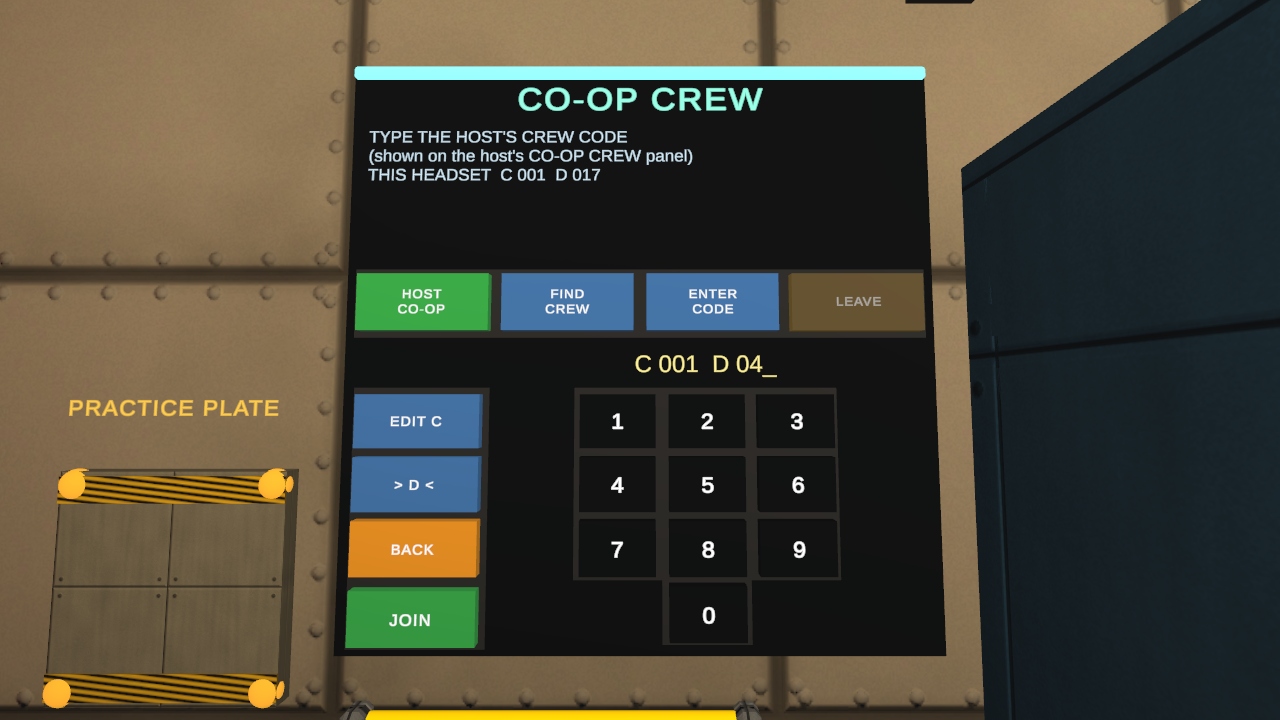
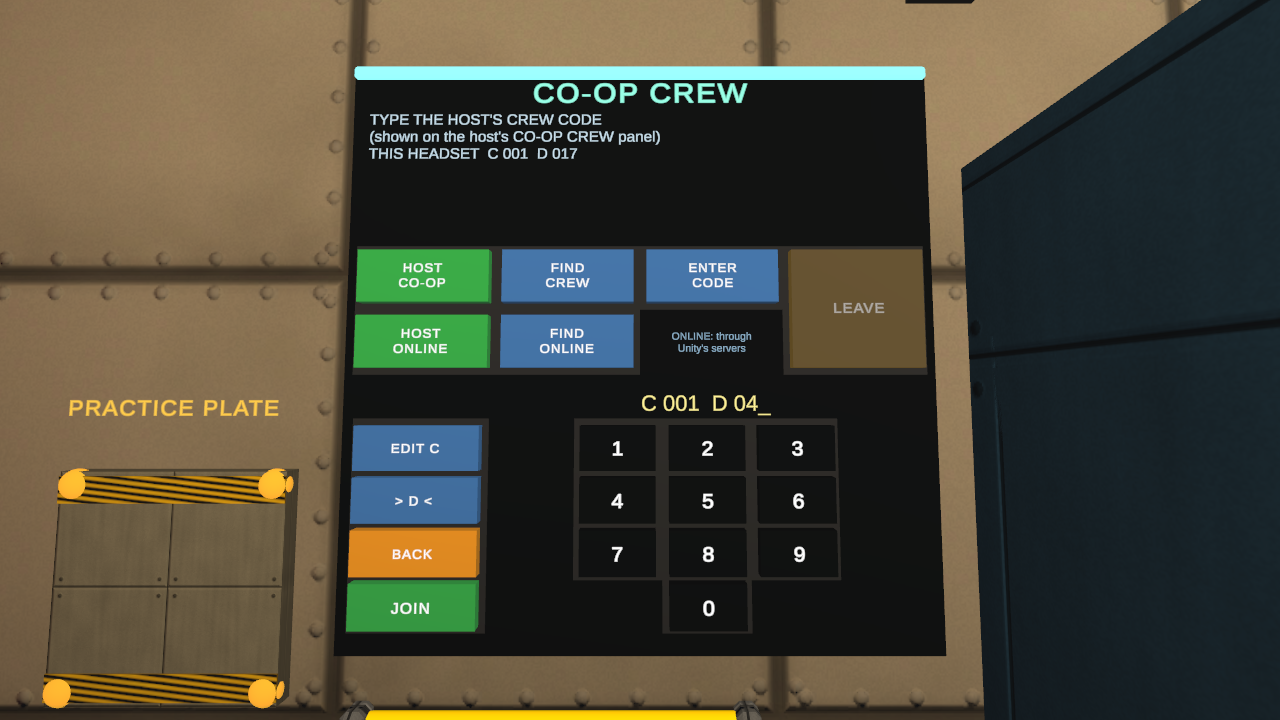
Panel content test for the two-row layout and five result rows; online preview shots; README test counts (full suites green: EditMode 285, PlayMode 177, Online test passed against the live service)

diff --git a/Assets/TrashAstronauts/Tests/EditMode/NetContentTests.cs b/Assets/TrashAstronauts/Tests/EditMode/NetContentTests.cs
@@ -1,4 +1,5 @@
 using System;
+using System.Collections.Generic;
 using System.IO;
 using System.Linq;
 using System.Reflection;
@@ -154,7 +155,7 @@ namespace TrashAstronauts.Tests
             Assert.AreEqual(1, boards.Length);
             var board = boards[0];
             Assert.IsNotNull(board.session);
-            foreach (var b in new[] { board.hostButton, board.findButton, board.codeButton, board.leaveButton, board.fieldCButton, board.fieldDButton, board.backButton, board.joinCodeButton })
+            foreach (var b in new[] { board.hostButton, board.findButton, board.codeButton, board.hostOnlineButton, board.findOnlineButton, board.leaveButton, board.fieldCButton, board.fieldDButton, board.backButton, board.joinCodeButton })
             {
                 Assert.IsNotNull(b);
                 Assert.AreEqual(GameLayers.Button, b.gameObject.layer, b.name + " is pressable by hand and pointer");
@@ -162,11 +163,31 @@ namespace TrashAstronauts.Tests
             Assert.AreEqual("HOST\nCO-OP", board.hostButton.Text);
             Assert.AreEqual("FIND\nCREW", board.findButton.Text);
             Assert.AreEqual("ENTER\nCODE", board.codeButton.Text);
+            Assert.AreEqual("HOST\nONLINE", board.hostOnlineButton.Text);
+            Assert.AreEqual("FIND\nONLINE", board.findOnlineButton.Text);
             Assert.AreEqual("LEAVE", board.leaveButton.Text);
             Assert.AreEqual(10, board.digitButtons.Length);
             for (int d = 0; d < 10; d++) Assert.AreEqual(d.ToString(), board.digitButtons[d].Text);
-            Assert.AreEqual(3, board.joinButtons.Length);
-            Assert.AreEqual(3, board.resultRows.Length);
+            // Up to three Wi-Fi tugs or five online games, each with its own JOIN.
+            Assert.AreEqual(NetLobbyBoard.ResultRowCount, board.joinButtons.Length);
+            Assert.AreEqual(NetLobbyBoard.ResultRowCount, board.resultRows.Length);
+            Assert.AreEqual(5, NetLobbyBoard.ResultRowCount);
+            foreach (var b in board.joinButtons) Assert.That(b.transform.position.y, Is.InRange(1.1f, 1.8f), "JOIN at hand height.");
+
+            // Every button is a decent target and none overlaps another (the online row was added below the Wi-Fi row).
+            var buttons = new List<PushButton> { board.hostButton, board.findButton, board.codeButton, board.hostOnlineButton, board.findOnlineButton, board.leaveButton };
+            var faces = new List<Rect>();
+            foreach (var b in buttons)
+            {
+                var col = b.GetComponent<BoxCollider>();
+                Assert.GreaterOrEqual(col.size.x, 0.25f, b.name);
+                Assert.GreaterOrEqual(col.size.y, 0.1f, b.name);
+                Vector3 at = board.transform.InverseTransformPoint(b.transform.position);
+                faces.Add(new Rect(at.x - col.size.x * 0.5f, at.y - col.size.y * 0.5f, col.size.x, col.size.y));
+            }
+            for (int i = 0; i < buttons.Count; i++)
+                for (int k = i + 1; k < buttons.Count; k++)
+                    Assert.IsFalse(faces[i].Overlaps(faces[k]), buttons[i].name + " overlaps " + buttons[k].name);
             Assert.IsFalse(board.keypadPanel.activeSelf);
             Assert.IsFalse(board.resultsPanel.activeSelf);
             Assert.IsTrue(board.infoPanel.activeSelf);

diff --git a/README.md b/README.md
@@ -20,6 +20,8 @@ That one file is the whole game. To install it:
 
 Version 0.10.0 is the **first co-op build**, and it is deliberately small: on the same Wi-Fi, one headset presses **HOST CO-OP** on the new CO-OP CREW panel in the tug, the others press **FIND CREW** and **JOIN** (or ENTER CODE), and up to four players **see each other** in the tug as suited astronauts with moving heads, arms and gloved hands, each in their own colour. Contracts cannot be started while a crew link is open yet; the shared contract comes next, and online play after that. The game now asks for the network permission, and contacts nothing until one of those buttons is pressed. It has never been tried on two real headsets: whether they find each other on your network is exactly what this build is for.
 
+The source in this repository has moved on from the 0.10.0 download: crews can now also form **online**, and the host can start a **shared contract** that the whole crew rides along in (see **Co-op** below). No build of that has been published yet.
+
 Version 0.9.3 is about the spider's legs and what you hear. **The spider's feet are planted**: each foot stays fixed on the floor, wall or ceiling while the body moves over it, the legs step in two alternating groups of four with the knees up, and it stands still when it stops. **Breathing and a heartbeat** follow your effort and your fear (the spider near or chasing). **Sounds are muffled through walls** and clear in line of sight, and **rooms echo according to their size**. The new light fixtures **go dark with their lamp** when it is dead or during a blackout. It has not been run on a headset yet.
 
 Version 0.9.2 continues the physics work. **Heavy items can be carried with two hands**, which steadies them and lets you throw them harder. **The spider is a solid body**: it knocks floating junk aside as it walks, and a heavy item thrown hard enough makes it **flinch** for a moment (not more than once every six seconds, and never during the jumpscare). **Delicate items crack** and shed a few shards when they take a damaging hit. In the Moon cave the **thruster now gives a real hop** instead of barely cancelling your weight. More wall detail in the ships (junction boxes, structural ribs). It has not been run on a headset yet.
@@ -262,11 +264,11 @@ and performance testing on the headset.
 | Kind | Status |
 |---|---|
 | **Compilation** | All assemblies compile with no errors in 6000.6.8f1. |
-| **Automated tests, rules and content (EditMode, 265)** | Pass. New for the co-op preview: the crew stand-in has the helmeted suit, the modelled gloves and a door-blocking body but no camera, listener, interactor, input, light or tool/salvage layer; the scene has exactly one offline network session and a CO-OP CREW panel clear of the other tug furniture; the Android build keeps the INTERNET permission, and the build check fails a manifest without it. New in 0.9.1: the cave stays within its triangle and renderer budget with its lights registered; ship walls and floors have normal maps, decoration has no colliders and stays within a per-ship budget. New in 0.9.0: the glove model has its named parts, stays in budget, is not inside-out, and both hands wear it the right way round. New in 0.8.3: the networking core for co-op (message formats, reliable delivery under packet loss, joining and item ownership rules), tested without opening a real connection to anyone. New in 0.8.2: the Blender suit export has every named part, stays within its triangle budget and is not inside-out. Second 0.6.0 build: a chasing creature that has lost sight follows sounds and can be pointed at a better guess; damaged salvage is worth less, never recovers, and is safe once in the locker. New in 0.6.0: speech is cut into phrases correctly (short noises dropped, long speech capped, only the last four kept, all forgotten on clear) and the Mimic prefab is the only creature that records. From 0.5.0: the voice detector (silence and steady background noise are ignored, a whisper is safe, talking is heard, shouting carries further, a single click is ignored), and all three wrecks being complete, inside the playable volume and always able to pay the quota for 300 seeds each. From 0.4.0: trick-shot bonus rules, the three creature prefabs and their different senses, the handshake hand pose with tools held by their handles, and the rubber duck. Includes the shop rules, the cutter coolant upgrade and the hand-tracking gesture maths. Mission outcomes, duplicate-deposit prevention, bank-exactly-once, failure keeps old credits, restart cleanup, save/load including missing and corrupt files, oxygen upgrade, loot generation over hundreds of seeds, drone state machine, noise thresholds, cutter heat. |
-| **Automated tests, real scene (PlayMode, 148)** | Pass. New for the co-op preview: the scene hosts and simulated headsets join over an in-memory network; their suits appear in their slot colours, follow the stream about 100 ms behind, curl their fingers, go away after silence and disappear on LEAVE or a timeout; the scene joins a simulated host, takes slot 1 and sees the host and another joiner, and LEAVE makes it solo again; the same over real sockets on 127.0.0.1; the panel's HOST CO-OP, FIND CREW with JOIN, ENTER CODE keypad and LEAVE buttons work and every refusal is shown in words; no contract starts while a crew is linked; a whole offline contract opens no socket. Co-op has not been tried on two real headsets. New in 0.9.3: on all four species planted feet slide less than 2 cm and stay on the surface on floor, wall and ceiling, the two leg groups are never in the air together, and the foot placement is off while dormant and in the jumpscare; breathing and heartbeat rise and settle smoothly and are calm in the tug; a wall between you and a sound muffles it; a small and a large room get different reverb; fixture lenses follow their lamps through dead lights and blackouts. New in 0.9.2: two hands hold a heavy item and it lags less, one hand can let go without dropping it; a 40 kg core thrown at 4 m/s staggers the spider once and not again inside the cooldown, a can does nothing, and it cannot be staggered asleep or mid-jumpscare; it knocks a floating crate ahead of it; delicate items shed at most twelve shards that fade; the cave thruster lifts you well clear of the ground. New in 0.9.1: in the cave a released item falls and rests on the floor while in a ship it keeps drifting, the player comes to rest on the ground and can leave it with the thruster, the tug stays weightless, and the spider patrols the cave. New in 0.9.0: thirteen tests that run real physics (nothing tunnels through a wall at 25 m/s, recoil conserves momentum, thrust scales with load, heavy items lag then catch up, held items stop at a wall and the grip slips, throw speed limits by mass, doors clear loose items) and six on the gloves (finger parts on both hands, rest pose, trigger moves only the index finger, fingers stop on a held object). New in 0.8.3: no web is strung across a route on any contract, infested or not, and the cocoons are gone; co-op groundwork seams behave identically offline. New in 0.8.2: the player has a suit with a visible torso and a hidden helmet, the torso follows the head, the arms reach the hands and stay on the shoulders, every holstered tool is still visible past the body, and the crew colour can be set. New in 0.8.1: the spider's footsteps play from its body and are silent while it is dormant or lying in wait, it stops dead on its rounds and a noise ends the wait; some lights are dead, different ones per contract, never the airlock's, and stay dead through a blackout; the flashlight drains, goes out when flat, refuses to light, recovers when off and is recharged by the tug. New in 0.8.0: all four spiders rest on the ceiling when dormant, stand on the floor (not floating), climb the wall standing sideways, and cross to the ceiling upside down, with their hit volume following the body; a hunting spider comes down and still catches the player; a web tripwire slows the player, raises a noise and draws the spider, burning one is silent, and an infested contract strings them all; conditions change oxygen, values, bonus and wake time and appear on the board; spiderlings wander and bolt; a door behind the player slams; the best haul is remembered. The jumpscare test now also checks the glimpse, at least three bites, the visor cracking and the blackout ending. New in 0.7.0: the shop is a 3D stall in the supply bay (part of the safe tug), still sells, folds to a small crate when a contract starts and unfolds afterwards; a slow reach does not knock salvage away but a fast open-hand swing bats it and drifting into it pushes it, without moving or slowing the player; the dropping spider appears at arm's length and leaves, harmlessly. Second 0.6.0 build: the jumpscare kills every light first, holds the creature back unseen, then puts it within half a metre of the player's eyes and squarely in view for over a second, and restores the lights afterwards; the charging fake-out gets close but never reaches or harms the player; a player whose head is 3 m from their play-space centre still starts inside the lobby, and one found outside it before a contract is put back; the creature leaves its route to run down a player standing in the middle of a big room without passing through anything, is faster than the thruster and rises toward a player floating high; the wrist noise meter shows impacts and voice and fades; delicate salvage loses value when banged and the locker pays what is left; every staged scare can be triggered, the lights come back, and the glimpse vanishes when looked at. New in 0.6.0: the Mimic answers with the phrase it was given, from its own position, lower and slower; the microphone ignores the Mimic's voice; phrases are kept only while a Mimic is aboard and are forgotten when the contract ends or MIC is switched off; it goes quiet in a blackout and when tranquilized. These use injected test phrases, not a real microphone. From 0.5.0: one wreck docked per contract, chosen by the run's seed, with the previous one cleaned up; in every wreck all loot spots, panels and recovery points are reachable by teleport, the creature completes its whole patrol without passing through walls or entering the tug or the sealed shortcuts, the blackout takes out that wreck's lights and its sealed panels open; the creature hears talking but not a whisper, and not with MIC off (driven with a simulated microphone level, not a real microphone). From 0.4.0: one creature per contract chosen from three by the run's seed (all three turn up over 24 contracts), each creature wakes, patrols and hears with its own senses, the thruster pushes where the hand points and tops out, the brake stops you, a hand holding something does not thrust, trick shots pay only for real throws from range, throw recoil conserves momentum, and the duck is hidden every run, squeaks, and draws the creature. From 0.3.0: open-hand swimming at realistic stroke speeds, solid hands pushing off a wall, the shop, the tranquilizer putting the creature to sleep and it waking again, the blackout and its recovery, the jumpscare on being caught, and held items resting in the palm. Three of these drive the game through a simulated tracked controller with the real input bindings and grab interactor: the hand follows the controller, salvage can be picked up, carried and released, and the cutter can be drawn from its holster, fired and used to cut a panel open. Zero-g drift keeps momentum and is stopped by the hull, grabbing a wall pulls the body and letting go pushes off, swim strokes propel the player, the drift comfort option, the tutorial advancing on real actions and being replayable. Also: fresh launch state, settings and handedness, loot worth more than the quota, every spawn point and the locker reachable from a teleport landing spot, teleport and unstuck, locker counts each item once, cutting opens the reactor compartment and the core can be recovered, mounted salvage releases when cut, drone investigates noise and returns to patrol, drone never enters the tug/airlock/duct, drone catches an exposed player and the run fails without touching banked credits, hazard pause, oxygen warnings and failure, both extraction payouts, clean restart, oxygen upgrade persists and applies. |
+| **Automated tests, rules and content (EditMode, 285)** | Pass. New for online play and the shared contract: the online module (sign-in, Relay and Lobby steps, every service error mapped to board words, the lobby listing rules) against fake services, and a scene-less copy of the shared contract's books that stays identical to the host's after every message, with every message applied twice changing nothing. New for the co-op preview: the crew stand-in has the helmeted suit, the modelled gloves and a door-blocking body but no camera, listener, interactor, input, light or tool/salvage layer; the scene has exactly one offline network session and a CO-OP CREW panel clear of the other tug furniture; the Android build keeps the INTERNET permission, and the build check fails a manifest without it. New in 0.9.1: the cave stays within its triangle and renderer budget with its lights registered; ship walls and floors have normal maps, decoration has no colliders and stays within a per-ship budget. New in 0.9.0: the glove model has its named parts, stays in budget, is not inside-out, and both hands wear it the right way round. New in 0.8.3: the networking core for co-op (message formats, reliable delivery under packet loss, joining and item ownership rules), tested without opening a real connection to anyone. New in 0.8.2: the Blender suit export has every named part, stays within its triangle budget and is not inside-out. Second 0.6.0 build: a chasing creature that has lost sight follows sounds and can be pointed at a better guess; damaged salvage is worth less, never recovers, and is safe once in the locker. New in 0.6.0: speech is cut into phrases correctly (short noises dropped, long speech capped, only the last four kept, all forgotten on clear) and the Mimic prefab is the only creature that records. From 0.5.0: the voice detector (silence and steady background noise are ignored, a whisper is safe, talking is heard, shouting carries further, a single click is ignored), and all three wrecks being complete, inside the playable volume and always able to pay the quota for 300 seeds each. From 0.4.0: trick-shot bonus rules, the three creature prefabs and their different senses, the handshake hand pose with tools held by their handles, and the rubber duck. Includes the shop rules, the cutter coolant upgrade and the hand-tracking gesture maths. Mission outcomes, duplicate-deposit prevention, bank-exactly-once, failure keeps old credits, restart cleanup, save/load including missing and corrupt files, oxygen upgrade, loot generation over hundreds of seeds, drone state machine, noise thresholds, cutter heat. |
+| **Automated tests, real scene (PlayMode, 177)** | Pass. New for the shared contract: the scene hosts and a simulated headset's START starts the real contract, which it hears about (contract, world state, clock and shared oxygen twice a second, item positions); its door and panel requests open the real door and panel and each change is sent once; its EXTRACT is refused naming it while its head is outside the tug and ends the run when it is aboard, with the same payout on both sides; a second contract starts from the results screen; nobody can join mid-contract; the host's pause is sent. The scene joins a simulated host: START on its board asks the host, the host's contract is rebuilt with the same salvage ids, items follow the host's stream and settle where the host says, a deposit lands in the host's locker slot, EXTRACT shows who is not aboard, the end of the run pays this headset's save once and brings the player home, HOST PAUSED and HOST NOT RESPONDING are shown, and 60 s of silence (on a test clock) abandons the contract with nothing banked. A whole contract over real sockets on 127.0.0.1: a simulated headset rides along while salvage goes into the host's locker, then extraction pays both. New for online play: HOST ONLINE, FIND ONLINE with a JOIN per game, and LEAVE on the panel through a stand-in online link, every online problem shown in words, a different version refused with the same words as on Wi-Fi, a request cancelled by LEAVE or by the scene closing has its connection closed when it arrives; and one test against Unity's live servers (category Online; it reports Inconclusive instead of failing when the service cannot be reached): the scene hosts through its own panel, a second simulated player finds it in the real Lobby list, joins through Relay, sees the crew and the start of a contract, and LEAVE closes every Relay connection. It passed from a Mac. A whole offline contract still opens no socket, no Relay connection and never asks Unity's services to start. New for the co-op preview: the scene hosts and simulated headsets join over an in-memory network; their suits appear in their slot colours, follow the stream about 100 ms behind, curl their fingers, go away after silence and disappear on LEAVE or a timeout; the scene joins a simulated host, takes slot 1 and sees the host and another joiner, and LEAVE makes it solo again; the same over real sockets on 127.0.0.1; the panel's HOST CO-OP, FIND CREW with JOIN, ENTER CODE keypad and LEAVE buttons work and every refusal is shown in words; a whole offline contract opens no socket. Co-op has not been tried on two real headsets. New in 0.9.3: on all four species planted feet slide less than 2 cm and stay on the surface on floor, wall and ceiling, the two leg groups are never in the air together, and the foot placement is off while dormant and in the jumpscare; breathing and heartbeat rise and settle smoothly and are calm in the tug; a wall between you and a sound muffles it; a small and a large room get different reverb; fixture lenses follow their lamps through dead lights and blackouts. New in 0.9.2: two hands hold a heavy item and it lags less, one hand can let go without dropping it; a 40 kg core thrown at 4 m/s staggers the spider once and not again inside the cooldown, a can does nothing, and it cannot be staggered asleep or mid-jumpscare; it knocks a floating crate ahead of it; delicate items shed at most twelve shards that fade; the cave thruster lifts you well clear of the ground. New in 0.9.1: in the cave a released item falls and rests on the floor while in a ship it keeps drifting, the player comes to rest on the ground and can leave it with the thruster, the tug stays weightless, and the spider patrols the cave. New in 0.9.0: thirteen tests that run real physics (nothing tunnels through a wall at 25 m/s, recoil conserves momentum, thrust scales with load, heavy items lag then catch up, held items stop at a wall and the grip slips, throw speed limits by mass, doors clear loose items) and six on the gloves (finger parts on both hands, rest pose, trigger moves only the index finger, fingers stop on a held object). New in 0.8.3: no web is strung across a route on any contract, infested or not, and the cocoons are gone; co-op groundwork seams behave identically offline. New in 0.8.2: the player has a suit with a visible torso and a hidden helmet, the torso follows the head, the arms reach the hands and stay on the shoulders, every holstered tool is still visible past the body, and the crew colour can be set. New in 0.8.1: the spider's footsteps play from its body and are silent while it is dormant or lying in wait, it stops dead on its rounds and a noise ends the wait; some lights are dead, different ones per contract, never the airlock's, and stay dead through a blackout; the flashlight drains, goes out when flat, refuses to light, recovers when off and is recharged by the tug. New in 0.8.0: all four spiders rest on the ceiling when dormant, stand on the floor (not floating), climb the wall standing sideways, and cross to the ceiling upside down, with their hit volume following the body; a hunting spider comes down and still catches the player; a web tripwire slows the player, raises a noise and draws the spider, burning one is silent, and an infested contract strings them all; conditions change oxygen, values, bonus and wake time and appear on the board; spiderlings wander and bolt; a door behind the player slams; the best haul is remembered. The jumpscare test now also checks the glimpse, at least three bites, the visor cracking and the blackout ending. New in 0.7.0: the shop is a 3D stall in the supply bay (part of the safe tug), still sells, folds to a small crate when a contract starts and unfolds afterwards; a slow reach does not knock salvage away but a fast open-hand swing bats it and drifting into it pushes it, without moving or slowing the player; the dropping spider appears at arm's length and leaves, harmlessly. Second 0.6.0 build: the jumpscare kills every light first, holds the creature back unseen, then puts it within half a metre of the player's eyes and squarely in view for over a second, and restores the lights afterwards; the charging fake-out gets close but never reaches or harms the player; a player whose head is 3 m from their play-space centre still starts inside the lobby, and one found outside it before a contract is put back; the creature leaves its route to run down a player standing in the middle of a big room without passing through anything, is faster than the thruster and rises toward a player floating high; the wrist noise meter shows impacts and voice and fades; delicate salvage loses value when banged and the locker pays what is left; every staged scare can be triggered, the lights come back, and the glimpse vanishes when looked at. New in 0.6.0: the Mimic answers with the phrase it was given, from its own position, lower and slower; the microphone ignores the Mimic's voice; phrases are kept only while a Mimic is aboard and are forgotten when the contract ends or MIC is switched off; it goes quiet in a blackout and when tranquilized. These use injected test phrases, not a real microphone. From 0.5.0: one wreck docked per contract, chosen by the run's seed, with the previous one cleaned up; in every wreck all loot spots, panels and recovery points are reachable by teleport, the creature completes its whole patrol without passing through walls or entering the tug or the sealed shortcuts, the blackout takes out that wreck's lights and its sealed panels open; the creature hears talking but not a whisper, and not with MIC off (driven with a simulated microphone level, not a real microphone). From 0.4.0: one creature per contract chosen from three by the run's seed (all three turn up over 24 contracts), each creature wakes, patrols and hears with its own senses, the thruster pushes where the hand points and tops out, the brake stops you, a hand holding something does not thrust, trick shots pay only for real throws from range, throw recoil conserves momentum, and the duck is hidden every run, squeaks, and draws the creature. From 0.3.0: open-hand swimming at realistic stroke speeds, solid hands pushing off a wall, the shop, the tranquilizer putting the creature to sleep and it waking again, the blackout and its recovery, the jumpscare on being caught, and held items resting in the palm. Three of these drive the game through a simulated tracked controller with the real input bindings and grab interactor: the hand follows the controller, salvage can be picked up, carried and released, and the cutter can be drawn from its holster, fired and used to cut a panel open. Zero-g drift keeps momentum and is stopped by the hull, grabbing a wall pulls the body and letting go pushes off, swim strokes propel the player, the drift comfort option, the tutorial advancing on real actions and being replayable. Also: fresh launch state, settings and handedness, loot worth more than the quota, every spawn point and the locker reachable from a teleport landing spot, teleport and unstuck, locker counts each item once, cutting opens the reactor compartment and the core can be recovered, mounted salvage releases when cut, drone investigates noise and returns to patrol, drone never enters the tug/airlock/duct, drone catches an exposed player and the run fails without touching banked credits, hazard pause, oxygen warnings and failure, both extraction payouts, clean restart, oxygen upgrade persists and applies. |
 | **Editor simulation** | Simulator enabled; not exercised by hand. The PlayMode tests call the same public methods the VR interactions call, most of them do **not** simulate controller input (the zero-g tests move the hand transforms directly). Grabbing and tool use are covered by the simulated-controller tests; button poking and how the floating feels are unverified. |
 | **Android build** | Succeeds. `Builds/Quest/TrashAstronauts.apk` was built in batch mode; its manifest, ARM64 libraries, OpenXR loader and signature were inspected. It was not installed or launched on a device. |
-| **Headset** | Version 0.6.0 has not been run on a headset: the Mimic has never recorded or played back a real voice. Version 0.5.0 has not been run on a headset by me either: the microphone, the two new wrecks, the enlarged first wreck, the flight deck and the new sound effects are all unheard and unseen in VR. The sound effects were checked numerically (levels, clipping, loop seams), not by ear. Version 0.4.0 has not been run on a headset by me either. Version 0.3.0 was played on a Quest by the project owner, who reported that tools were still held oddly, that moving around was hard and that the game needed more to do; 0.4.0 is the response, but the new hand pose, thruster feel and creature balance are set by reasoning and by tests, not by trying them on. Version 0.2.0 was played on a Quest by the project owner: grabbing worked but held items sat out at the fingers, and swimming did nothing. Both are fixed in 0.3.0 (the swim bug was a rest threshold that wiped out the small speed each frame of a stroke adds). Version 0.3.0 itself has not been run on a headset yet, and hand tracking has never been run on one. Earlier: version 0.1.0 was played on a Quest by the project owner: it launched and tracked, but nothing could be grabbed, so tools and cutting were unusable. That was a bug in the grab detector's setup and is fixed in 0.2.0, verified with the simulated-controller tests. Version 0.2.0 itself has not been run on a headset yet. No claims about comfort or performance. |
+| **Headset** | Co-op (same Wi-Fi and online, presence and the shared contract) has never been run on two real headsets: finding each other on a real network, Relay from a Quest, how the shared salvage looks while it moves, and what happens when a headset sleeps are all unconfirmed. Version 0.6.0 has not been run on a headset: the Mimic has never recorded or played back a real voice. Version 0.5.0 has not been run on a headset by me either: the microphone, the two new wrecks, the enlarged first wreck, the flight deck and the new sound effects are all unheard and unseen in VR. The sound effects were checked numerically (levels, clipping, loop seams), not by ear. Version 0.4.0 has not been run on a headset by me either. Version 0.3.0 was played on a Quest by the project owner, who reported that tools were still held oddly, that moving around was hard and that the game needed more to do; 0.4.0 is the response, but the new hand pose, thruster feel and creature balance are set by reasoning and by tests, not by trying them on. Version 0.2.0 was played on a Quest by the project owner: grabbing worked but held items sat out at the fingers, and swimming did nothing. Both are fixed in 0.3.0 (the swim bug was a rest threshold that wiped out the small speed each frame of a stroke adds). Version 0.3.0 itself has not been run on a headset yet, and hand tracking has never been run on one. Earlier: version 0.1.0 was played on a Quest by the project owner: it launched and tracked, but nothing could be grabbed, so tools and cutting were unusable. That was a bug in the grab detector's setup and is fixed in 0.2.0, verified with the simulated-controller tests. Version 0.2.0 itself has not been run on a headset yet. No claims about comfort or performance. |
 
 ## Assumptions and design decisions
 
